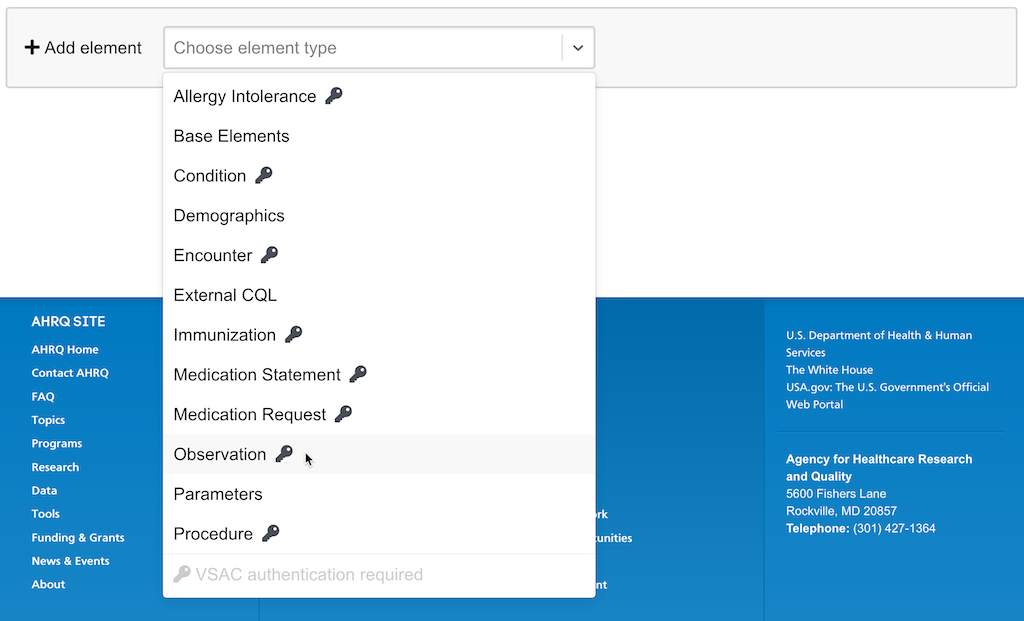
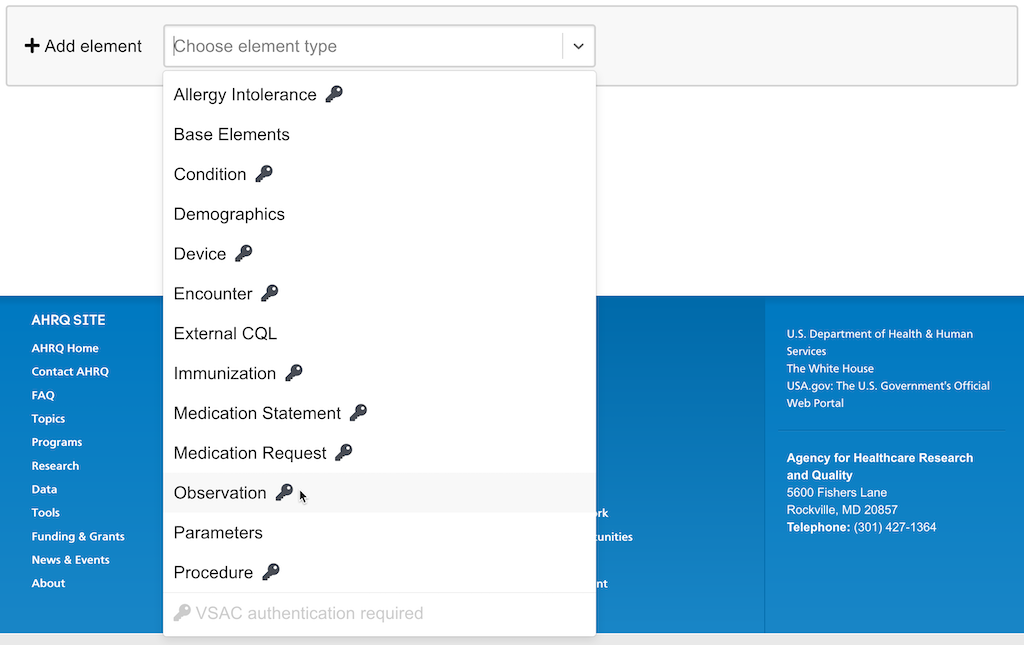
Add support for Device data type
- with Active modifier

Changed region(s): [[0.0, 0.0, 1.0, 1.0], [0.75, 0.7037, 0.9688, 0.8567], [0.5938, 0.1224, 1.0, 0.153]]

diff --git a/frontend/src/components/DataTypeGuide.js b/frontend/src/components/DataTypeGuide.js
@@ -313,6 +313,36 @@ export default class DataTypeGuide extends Component {
                   <li>See expressions that can be applied to <a href="#list-types">any list</a></li>
                 </ul>
 
+                <h3 id="list-of-Devices">List of Devices</h3>
+
+                <ul>
+                  <li>Active
+                    <ul>
+                      <li>
+                        CQL function: <code>C3F.ActiveDevice</code>
+                      </li>
+                      <li>
+                        Summary: Returns a list of active devices. In FHIR, a device is considered "active" if it is available
+                        for use. If it is an implanted device, this means it is implanted in the patient.
+                        <ul>
+                          <li>
+                            In FHIR R4 and STU3, this returns devices with <code>status</code> of 'active'
+                          </li>
+                          <li>
+                            In FHIR DSTU2, this returns devices with <code>status</code> of 'available'
+                          </li>
+                        </ul>
+                      </li>
+                      <li>
+                        Returns: List of Devices
+                      </li>
+                    </ul>
+                  </li>
+                  <li>
+                    See expressions that can be applied to <a href="#list-types">any list</a>
+                  </li>
+                </ul>
+
                 <h3 id="list-of-encounters">List of Encounters</h3>
 
                 <ul>
@@ -926,6 +956,12 @@ export default class DataTypeGuide extends Component {
                       <li>Returns: Boolean</li>
                     </ul>
                   </li>
+                  <li>See expressions that can be applied to <a href="#any-type">any type</a></li>
+                </ul>
+
+                <h3 id="device">Device</h3>
+
+                <ul>
                   <li>See expressions that can be applied to <a href="#any-type">any type</a></li>
                 </ul>
 

diff --git a/frontend/src/data/modifiers.js b/frontend/src/data/modifiers.js
@@ -7,12 +7,12 @@
 
 const elementLists = ['list_of_observations', 'list_of_conditions', 'list_of_medication_statements',
   'list_of_medication_requests', 'list_of_procedures', 'list_of_allergy_intolerances', 'list_of_encounters',
-  'list_of_immunizations', 'list_of_any', 'list_of_booleans', 'list_of_system_quantities', 'list_of_system_concepts',
-  'list_of_system_codes', 'list_of_integers', 'list_of_datetimes', 'list_of_strings', 'list_of_decimals',
-  'list_of_times', 'list_of_others'];
+  'list_of_immunizations', 'list_of_devices', 'list_of_any', 'list_of_booleans', 'list_of_system_quantities',
+  'list_of_system_concepts', 'list_of_system_codes', 'list_of_integers', 'list_of_datetimes', 'list_of_strings',
+  'list_of_decimals', 'list_of_times', 'list_of_others'];
 const everyElement = elementLists.concat(['boolean', 'system_quantity', 'system_concept', 'system_code',
   'observation', 'condition', 'medication_statement', 'medication_request', 'procedure', 'allergy_intolerance',
-  'encounter', 'immunization', 'integer', 'datetime', 'decimal', 'string', 'time', 'interval_of_integer',
+  'encounter', 'immunization', 'device', 'integer', 'datetime', 'decimal', 'string', 'time', 'interval_of_integer',
   'interval_of_datetime', 'interval_of_decimal', 'interval_of_quantity', 'any', 'other']);
 
 export default [
@@ -176,6 +176,15 @@ export default [
     returnType: 'list_of_immunizations',
     cqlTemplate: 'BaseModifier',
     cqlLibraryFunction: 'C3F.CompletedImmunization'
+  },
+  // devices
+  {
+    id: 'ActiveDevice',
+    name: 'Active',
+    inputTypes: ['list_of_devices'],
+    returnType: 'list_of_devices',
+    cqlTemplate: 'BaseModifier',
+    cqlLibraryFunction: 'C3F.ActiveDevice'
   },
 
   // strings

diff --git a/frontend/src/components/testing/PatientView.js b/frontend/src/components/testing/PatientView.js
@@ -85,6 +85,10 @@ const RESOURCE_KEYS = {
       'First item type': 'Coding:item.firstObject.type',
       'First item service': 'Coding:item.firstObject.service',
       Use: 'use'
+    },
+    Device: {
+      Type: 'CodeableConcept:type',
+      Status: 'status'
     }
   },
   STU3: {
@@ -161,6 +165,10 @@ const RESOURCE_KEYS = {
       'First item service': 'CodeableConcept:item.firstObject.service',
       Use: 'use',
       Status: 'status'
+    },
+    Device: {
+      Type: 'CodeableConcept:type',
+      Status: 'status'
     }
   },
   R4: {
@@ -236,6 +244,10 @@ const RESOURCE_KEYS = {
       'Claim type': 'CodeableConcept:type',
       'First item service': 'CodeableConcept:item.firstObject.productOrService',
       Use: 'use',
+      Status: 'status'
+    },
+    Device: {
+      Type: 'CodeableConcept:type',
       Status: 'status'
     }
   }
@@ -324,6 +336,7 @@ export default class PatientView extends Component {
           <PatientDataSection title="Conditions" data={this.extractData('Condition')} />
           <PatientDataSection title="Allergies" data={this.extractData('AllergyIntolerance')} />
           <PatientDataSection title="Medications" data={this.extractData('MedicationRequest')} />
+          <PatientDataSection title="Devices" data={this.extractData('Device')} />
           <PatientDataSection title="Careplans" data={this.extractData('CarePlan')} />
           <PatientDataSection title="Encounters" data={this.extractData('Encounter')} />
           <PatientDataSection title="Observations" data={this.extractData('Observation')} />

diff --git a/frontend/src/utils/artifacts/__tests__/convertToExpression.test.js b/frontend/src/utils/artifacts/__tests__/convertToExpression.test.js
@@ -490,3 +490,26 @@ test('Immunization Phrases', () => {
 
   expect(expressionPhrase).toEqual(expectedOutput);
 });
+
+test('Device Phrases', () => {
+  const modifiers = [
+    getModifier('ActiveDevice'),
+    getModifier('BooleanExists')
+  ];
+  const name = 'Device';
+  const valueSets = [{ name: 'PaceMakers', oid: '1.2.3' }];
+  const codes = [];
+  const expressionPhrase = convertToExpression(modifiers, name, valueSets, codes, 'boolean');
+
+  const expectedOutput = [
+    { expressionText: 'There', isExpression: false },
+    { expressionText: 'exists', isExpression: true },
+    { expressionText: 'an', isExpression: false },
+    { expressionText: 'active', isExpression: true },
+    { expressionText: 'device', isExpression: false, isType: true },
+    { expressionText: 'with a code from', isExpression: false },
+    { expressionText: 'PaceMakers', isExpression: true },
+  ];
+
+  expect(expressionPhrase).toEqual(expectedOutput);
+});

diff --git a/api/handlers/cqlHandler.js b/api/handlers/cqlHandler.js
@@ -671,6 +671,17 @@ class CqlArtifact {
           this.setFieldContexts(immunizationValueSets, 'Immunization', context);
           break;
         }
+        case 'device_vsac': {
+          const deviceValueSets = {
+            id: 'generic_device',
+            valuesets: [],
+            concepts: []
+          }
+          buildConceptObjectForCodes(field.codes, deviceValueSets.concepts);
+          addValueSets(field, deviceValueSets, 'valuesets');
+          this.setFieldContexts(deviceValueSets, 'Device', context);
+          break;
+        }
         case 'reference': {
           // Need to pull the element name from the reference to support renaming the elements while being used.
           if (field.id === 'parameterReference') {

diff --git a/frontend/src/utils/test_fixtures.js b/frontend/src/utils/test_fixtures.js
@@ -251,6 +251,7 @@ const genericElementTypes = [
   { value: 'baseElements', label: 'Base Elements', vsacAuthRequired: false },
   { value: 'condition', label: 'Condition', vsacAuthRequired: true, template: 'GenericCondition_vsac' },
   { value: 'demographics', label: 'Demographics', vsacAuthRequired: false },
+  { value: 'device', label: 'Device', vsacAuthRequired: true, template: 'GenericDevice_vsac' },
   { value: 'encounter', label: 'Encounter', vsacAuthRequired: true, template: 'GenericEncounter_vsac' },
   { value: 'externalCqlElement', label: 'External CQL', vsacAuthRequired: false },
   { value: 'immunization', label: 'Immunization', vsacAuthRequired: true, template: 'GenericImmunization_vsac' },

diff --git a/frontend/src/components/builder/ElementSelect.js b/frontend/src/components/builder/ElementSelect.js
@@ -81,6 +81,7 @@ const elementOptions = [
   { value: 'baseElement', label: 'Base Elements', vsacAuthRequired: false },
   { value: 'condition', label: 'Condition', vsacAuthRequired: true, template: 'GenericCondition_vsac' },
   { value: 'demographics', label: 'Demographics', vsacAuthRequired: false },
+  { value: 'device', label: 'Device', vsacAuthRequired: true, template: 'GenericDevice_vsac' },
   { value: 'encounter', label: 'Encounter', vsacAuthRequired: true, template: 'GenericEncounter_vsac' },
   { value: 'externalCqlElement', label: 'External CQL', vsacAuthRequired: false },
   { value: 'immunization', label: 'Immunization', vsacAuthRequired: true, template: 'GenericImmunization_vsac' },

diff --git a/frontend/src/utils/artifacts/convertToExpression.js b/frontend/src/utils/artifacts/convertToExpression.js
@@ -48,6 +48,7 @@ function getExpressionSentenceValue(modifier) {
     ActiveMedicationStatement: { modifierText: 'active', leadingText: '', type: 'list' },
     ActiveMedicationRequest: { modifierText: 'active', leadingText: '', type: 'list' },
     ActiveOrConfirmedAllergyIntolerance: { modifierText: 'active or confirmed', leadingText: '', type: 'list' },
+    ActiveDevice: { modifierText: 'active', leadingText: '', type: 'list' },
     EqualsString: { modifierText: 'equals', leadingText: '', type: 'post' },
     EndsWithString: { modifierText: 'ends with', leadingText: '', type: 'post' },
     StartsWithString: { modifierText: 'starts with', leadingText: '', type: 'post' },

diff --git a/frontend/src/components/UserGuide.js b/frontend/src/components/UserGuide.js
@@ -343,6 +343,7 @@ export default class UserGuide extends Component {
                       <li>
                         <strong>Demographics</strong>: Age or Gender as specified in an instance of the FHIR Patient resource type
                       </li>
+                      <li><strong>Device</strong>: Instances of the FHIR Device resource type</li>
                       <li><strong>Encounter</strong>: Instances of the FHIR Encounter resource type</li>
                       <li>
                         <strong>External CQL</strong>: Named CQL definitions from CQL files uploaded in the "External CQL" tab

diff --git a/api/handlers/externalCQLHandler.js b/api/handlers/externalCQLHandler.js
@@ -31,6 +31,7 @@ const singularReturnTypeMap = {
   'AllergyIntolerance': 'allergy_intolerance',
   'Encounter': 'encounter',
   'Immunization': 'immunization',
+  'Device': 'device',
   'Any': 'any'
 };
 
@@ -44,6 +45,7 @@ const listReturnTypeMap = {
   'AllergyIntolerance': 'list_of_allergy_intolerances',
   'Encounter': 'list_of_encounters',
   'Immunization': 'list_of_immunizations',
+  'Device': 'list_of_devices',
   'Any': 'list_of_any',
   'Boolean': 'list_of_booleans',
   'Code': 'list_of_system_codes',

diff --git a/api/data/formTemplates.js b/api/data/formTemplates.js
@@ -269,5 +269,23 @@ module.exports = [
         ]
       },
     ]
+  },
+  {
+    id: 14,
+    icon: 'heartbeat',
+    name: 'Device',
+    entries: [
+      {
+        id: 'GenericDevice_vsac',
+        name: 'Device',
+        returnType: 'list_of_devices',
+        suppress: true,
+        extends: 'Base',
+        template: 'GenericDevice',
+        fields: [
+          { id: 'device', type: 'device_vsac', name: 'Device' }
+        ]
+      },
+    ]
   }
 ];

diff --git a/frontend/src/components/builder/ListGroup.js b/frontend/src/components/builder/ListGroup.js
@@ -28,6 +28,7 @@ const listTypes = [
   'list_of_allergy_intolerances',
   'list_of_encounters',
   'list_of_immunizations',
+  'devices',
   'list_of_booleans',
   'list_of_system_quantities',
   'list_of_system_concepts',
@@ -43,6 +44,7 @@ const singularTypes = [
   'allergy_intolerance',
   'encounter',
   'immunization',
+  'device',
   'boolean',
   'system_quantity',
   'system_concept'
